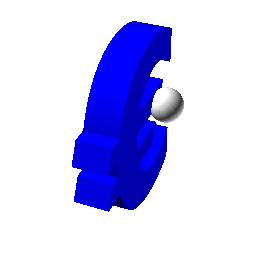
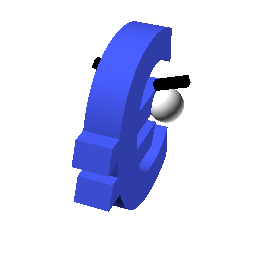
Add scad for the splash screen scene. Euro has a lighter, less saturated color. Oh, and angry eyebrows. :D

Changed region(s): [[0.2812, 0.0625, 0.75, 0.8438]]

diff --git a/external_resources/character/render_characters.py b/external_resources/character/render_characters.py
@@ -2,43 +2,64 @@ import os
 
 import delegator
 
-characters = {"eur": ("€", "[0, 0, 1.0]"),
-              "usd": ("$", "[0, 1.0, 0]"),
-              "gbp": ("£", "[1.0, 0.65, 0]"),
-              "yen": ("¥", "[0.63, 0.14, 0.94]")}
+def run_openscad_render(openscad_options, scad_filename, output_filename):
+    command_parts = ["openscad",
+                     f"-o {output_filename}",
+                     *openscad_options,
+                     scad_filename]
+    openscad_command = " ".join(command_parts)
+    delegator.run(openscad_command)
 
-scad_filename = os.path.abspath("character.scad")
-camera_rot_x_steps = 16
-camera_rot_x = 55
-camera_trans_z = 5
-camera_dist = 36
-image_size = 256
-output_folder = os.path.abspath(os.path.join("..", "..", "player", "skin"))
+    # next up, we remove the light yellow background from OpenSCAD with transparency
+    transparency_command = f"convert {output_filename} -transparent '#ffffe5' {output_filename}"
+    delegator.run(transparency_command)
 
-for name, (char, color) in characters.items():
-    skin_anim_path = os.path.join(output_folder, name, "idle")
-    os.makedirs(skin_anim_path, exist_ok=True)
+def render_characters():
+    characters = {"eur": ("€", "[0.269, 0.347, 0.953]"),
+                  "usd": ("$", "[0, 1.0, 0]"),
+                  "gbp": ("£", "[1.0, 0.65, 0]"),
+                  "yen": ("¥", "[0.63, 0.14, 0.94]")}
 
-    for ang_step in range(camera_rot_x_steps):
-        output_filename = os.path.join(skin_anim_path, f"{ang_step}.png")
+    scad_filename = os.path.abspath("character.scad")
+    camera_rot_x_steps = 16
+    camera_rot_x = 55
+    camera_trans_z = 5
+    camera_dist = 36
+    image_size = 256
+    output_folder = os.path.abspath(os.path.join("..", "..", "player", "skin"))
 
-        parameters = {"char": '\"' + char + '\"',
-                      "char_color": color,
-                      "$fn": 100}
+    for name, (char, color) in characters.items():
+        skin_anim_path = os.path.join(output_folder, name, "idle")
+        os.makedirs(skin_anim_path, exist_ok=True)
 
-        parameter_string = "\'" + ";".join([k + "=" + str(v) for k,v in parameters.items()]) + "\'"
+        for ang_step in range(camera_rot_x_steps):
+            output_filename = os.path.join(skin_anim_path, f"{ang_step}.png")
 
-        command_parts = ["openscad",
-                         f"-o {output_filename}",
-                         f"-D {parameter_string}",
-                         f"--camera=0,0,{camera_trans_z},{camera_rot_x},0,{(ang_step/camera_rot_x_steps) * 360},{camera_dist}",
-                         f"--imgsize={image_size},{image_size}",
-                         "--projection=p",
-                         "--autocenter",
-                         scad_filename]
-        render_command = " ".join(command_parts)
-        c = delegator.run(render_command)
+            parameters = {"char": '\"' + char + '\"',
+                          "char_color": color,
+                          "$fn": 100}
 
-        # next up, we remove the light yellow background from OpenSCAD with transparency
-        transparency_command = f"convert {output_filename} -transparent '#ffffe5' {output_filename}"
-        c = delegator.run(transparency_command)
+            parameter_string = "\'" + ";".join([k + "=" + str(v) for k,v in parameters.items()]) + "\'"
+
+            openscad_options = [f"-D {parameter_string}",
+                             f"--camera=0,0,{camera_trans_z},{camera_rot_x},0,{(ang_step/camera_rot_x_steps) * 360},{camera_dist}",
+                             f"--imgsize={image_size},{image_size}",
+                             "--projection=p",
+                             "--autocenter"]
+
+            run_openscad_render(openscad_options, scad_filename, output_filename)
+
+def render_splash_screen():
+    scad_filename = os.path.abspath("splash_screen.scad")
+    image_width = 2560
+    image_height = 1440
+
+    openscad_options = ["--camera=1.28,4.64,4.39,92.1,0,209.3,60.27",
+                        f"--imgsize={image_width},{image_height}",
+                        "--autocenter"]
+    output_filename = os.path.abspath("splash.png")
+
+    run_openscad_render(openscad_options, scad_filename, output_filename)
+
+render_splash_screen()
+render_characters()
